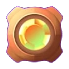
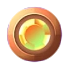
Tier Bronze: recorta o icone em circulo (na fonte) p/ ficar redondo; desfaz o disco do medal-r

Changed region(s): [[0.087, 0.087, 0.9275, 0.9275]]

diff --git a/tv.html b/tv.html
@@ -90,8 +90,7 @@
   .ranking .trow.pod2 .t-ic{filter:drop-shadow(0 0 2px #cbd5e1) drop-shadow(0 0 7px rgba(203,213,225,.85));}
   .ranking .trow.pod3 .t-ic{filter:drop-shadow(0 0 2px #cd7f32) drop-shadow(0 0 7px rgba(205,127,50,.85));}
   .t-nm{flex:1;font-size:2.3vh;font-weight:700;white-space:nowrap;overflow:hidden;text-overflow:ellipsis;min-width:0;}
-  .medal-r{width:5vh;height:5vh;object-fit:contain;border-radius:50%;flex-shrink:0;font-size:2vh;}
-  img.medal-r{padding:.55vh;background:radial-gradient(circle at 50% 38%,#2b2444,#141120);border:.16vh solid rgba(160,150,220,.30);box-shadow:inset 0 .12vh .5vh rgba(0,0,0,.45);}
+  .medal-r{width:5vh;height:5vh;object-fit:cover;border-radius:50%;flex-shrink:0;font-size:2vh;}
   .medal-fb{display:inline-flex;align-items:center;justify-content:center;color:#fff;font-weight:900;border-radius:50%;line-height:1;}
   .medal-none{filter:grayscale(1) brightness(.7) opacity(.45);}
   .medal-traco{display:inline-flex;align-items:center;justify-content:center;color:var(--muted);font-weight:900;font-size:2.6vh;line-height:1;}
